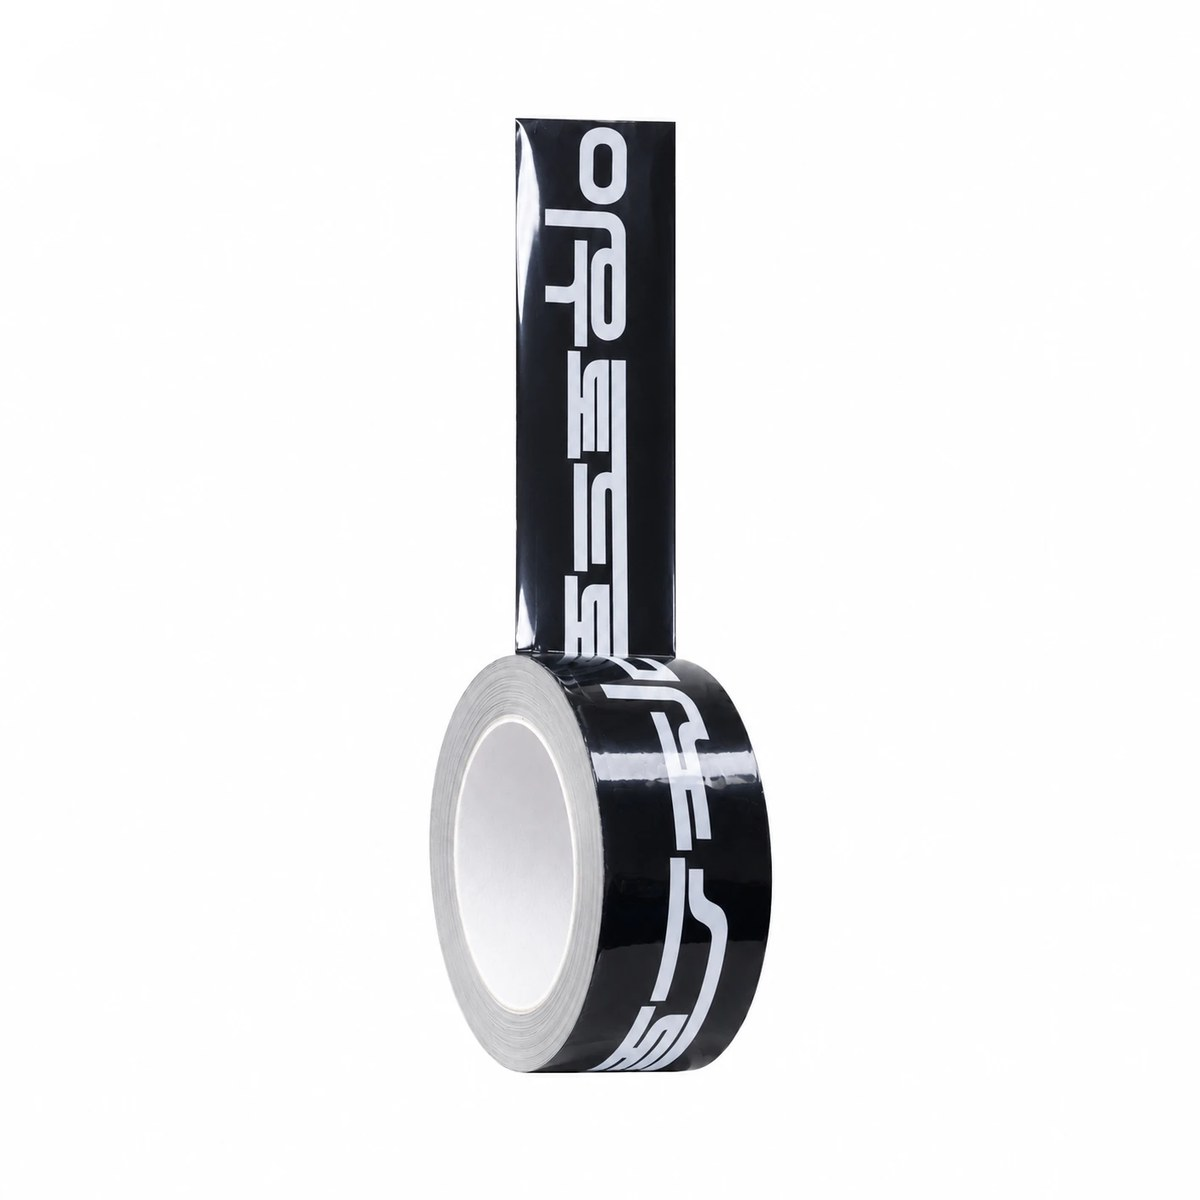
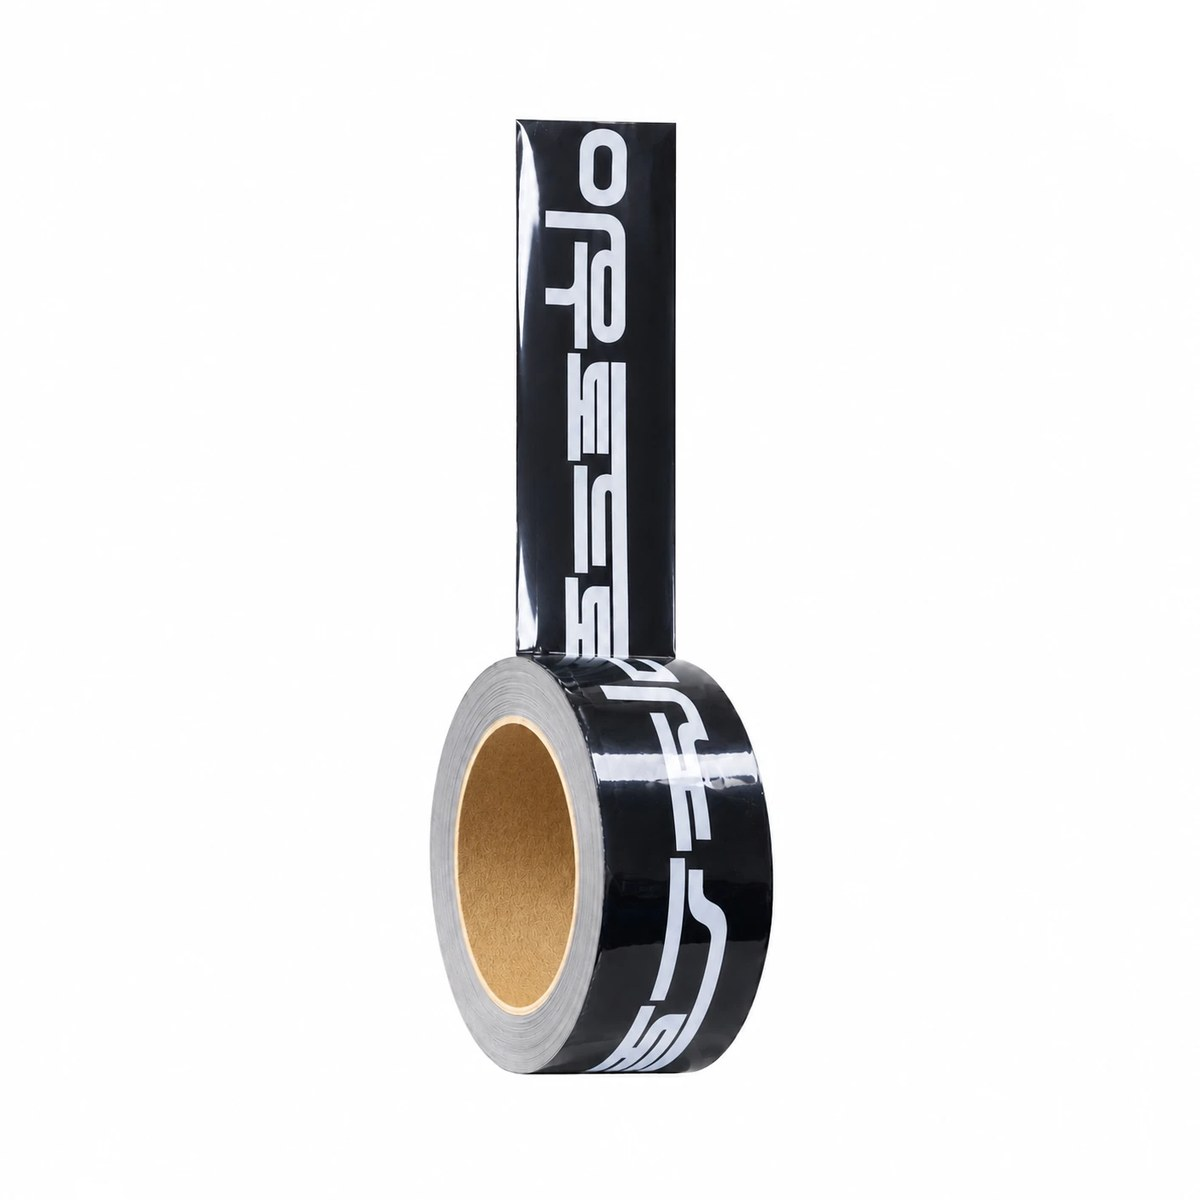
Apex Tape 이미지 교체(종이 심 테이프 롤), 이전 예시 이미지 삭제
- apex-tape.jpg: 1415² 흰 배경 사진을 1200×1200(58KB)으로 교체
- 예전 임시 예시 이미지 in-use-4.jpg 삭제, 이를 쓰던 test.html도 apex-tape.jpg로

Claude-Session: https://claude.ai/code/session_01Wm2qrKdJSb64XxC87sGbXV

diff --git a/test.html b/test.html
@@ -799,7 +799,7 @@ body.probe-intro .probe__hint { opacity: 1; visibility: visible; }</style></nosc
             <figcaption class="use-cases__caption">글자 도판</figcaption>
           </figure>
           <figure class="use-cases__item">
-            <img class="use-cases__img" src="assets/images/in-use-4.jpg" alt="종이 인쇄물의 확대 사진. 세리프 글자와 숫자, 주황·파랑 색 띠가 겹쳐 있다." width="512" height="640" loading="lazy" decoding="async" />
+            <img class="use-cases__img" src="assets/images/apex-tape.jpg" alt="검은 테이프 롤. 길게 풀어 놓은 테이프에 APEX SANS로 쓴 한글이 흰 글자로 인쇄돼 있다." width="1200" height="1200" loading="lazy" decoding="async" />
             <figcaption class="use-cases__caption">인쇄물</figcaption>
           </figure>
         </div>
